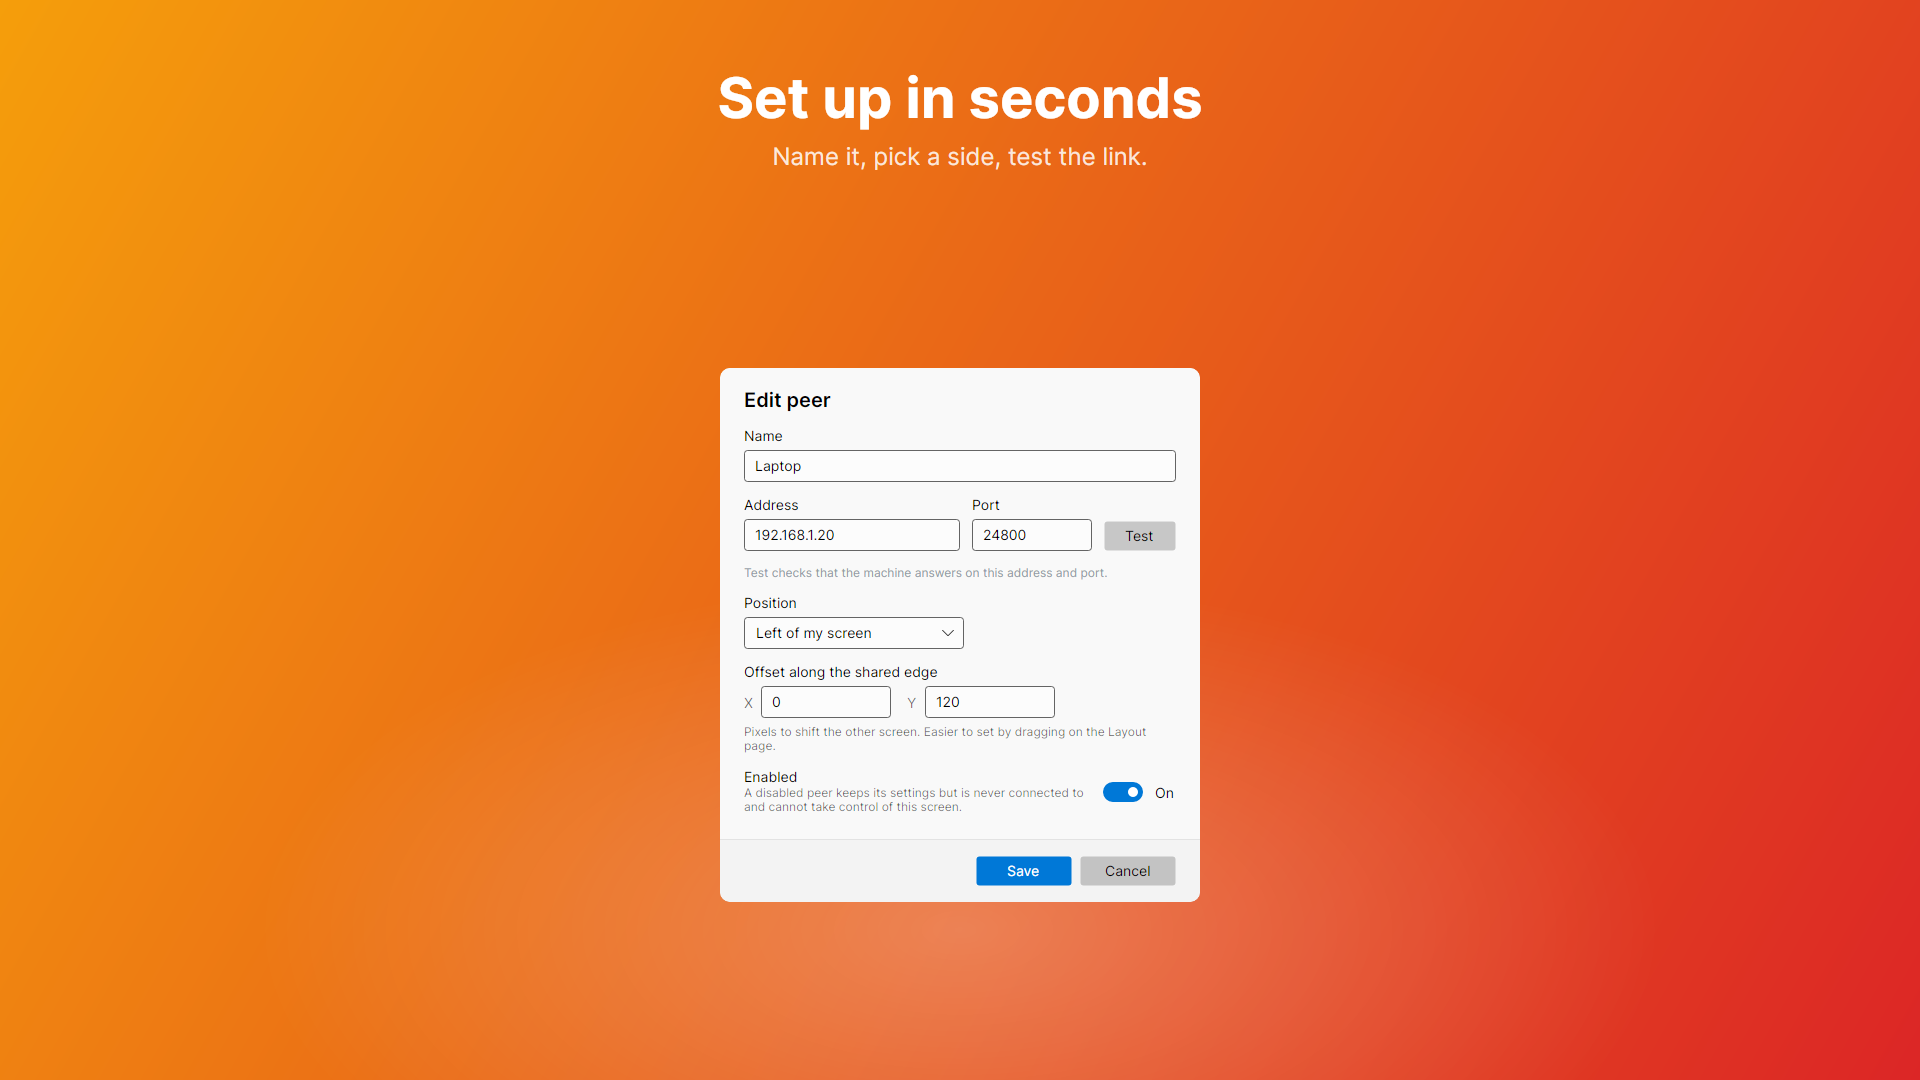
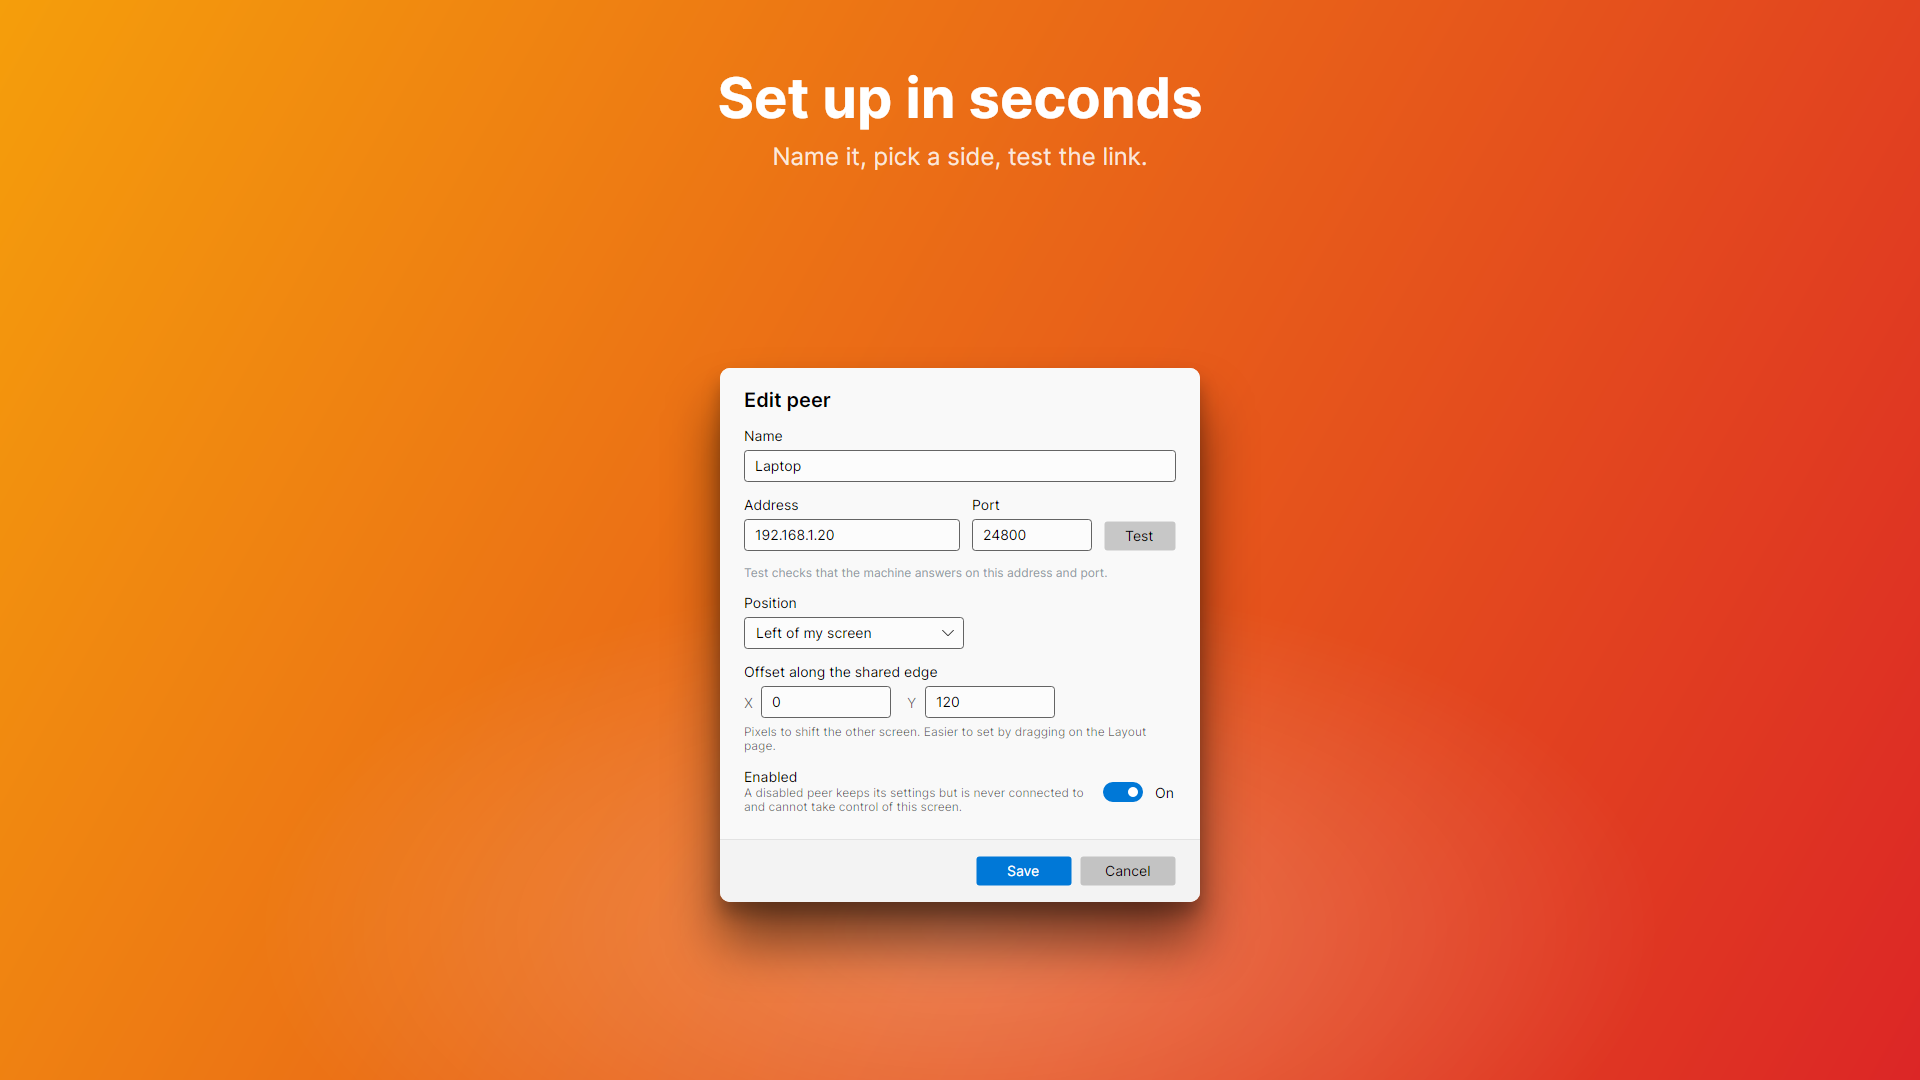
Store screenshots: visible drop shadow under the floating window
The shadow layer was clipping itself; split it from the clipped image
layer and deepened it.

Claude-Session: https://claude.ai/code/session_01WUV6fvGL7qrvuwPzqbGzzK

Changed region(s): [[0.3438, 0.3667, 0.6562, 0.9167]]

diff --git a/tools/RoboMouse.UiPreview/StoreScreenshots.cs b/tools/RoboMouse.UiPreview/StoreScreenshots.cs
@@ -115,17 +115,23 @@ internal static class StoreScreenshots
         });
 
         // The window: 1:1 pixels, rounded corners, soft shadow, hovering below the headline.
+        // Two layers: the outer one carries the shadow (a clipped element would cut its own shadow
+        // off), the inner one clips the screenshot to the rounded corners.
         var windowCard = new Border
         {
             Width = frame.PixelSize.Width,
             Height = frame.PixelSize.Height,
             CornerRadius = new CornerRadius(10),
-            ClipToBounds = true,
-            BoxShadow = BoxShadows.Parse("0 28 70 0 #59000000, 0 4 12 0 #33000000"),
+            BoxShadow = BoxShadows.Parse("0 40 90 0 #80000000, 0 12 28 0 #40000000"),
             Background = Brushes.White,
             HorizontalAlignment = HorizontalAlignment.Center,
             VerticalAlignment = VerticalAlignment.Bottom,
-            Child = new Image { Source = frame, Stretch = Stretch.None }
+            Child = new Border
+            {
+                CornerRadius = new CornerRadius(10),
+                ClipToBounds = true,
+                Child = new Image { Source = frame, Stretch = Stretch.None }
+            }
         };
         // Centre the window in the space below the headline (which ends around y=210).
         const int headerHeight = 210;
